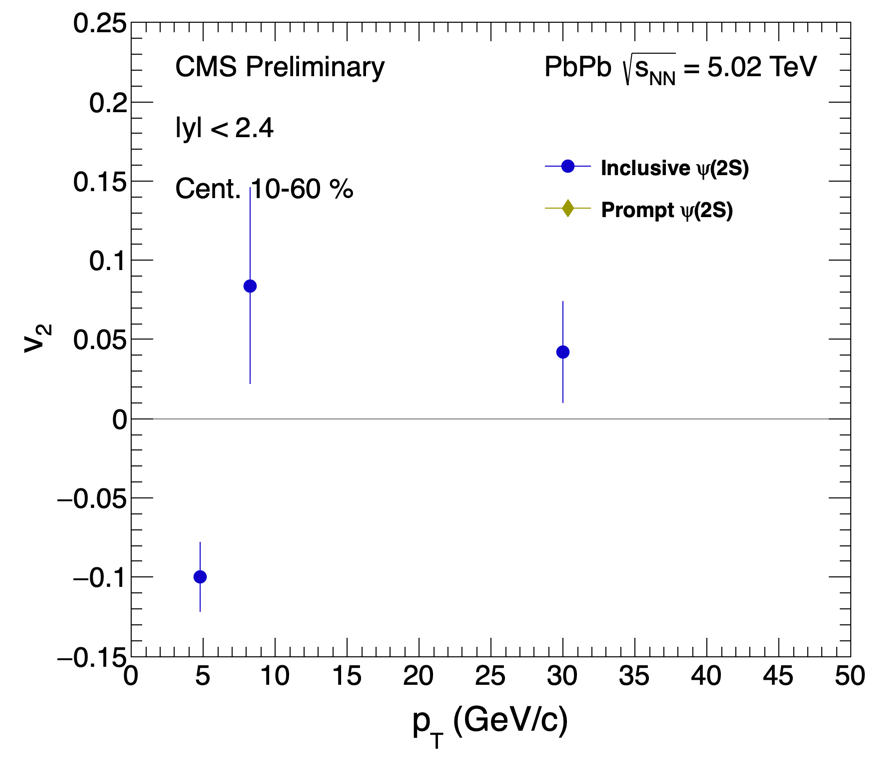
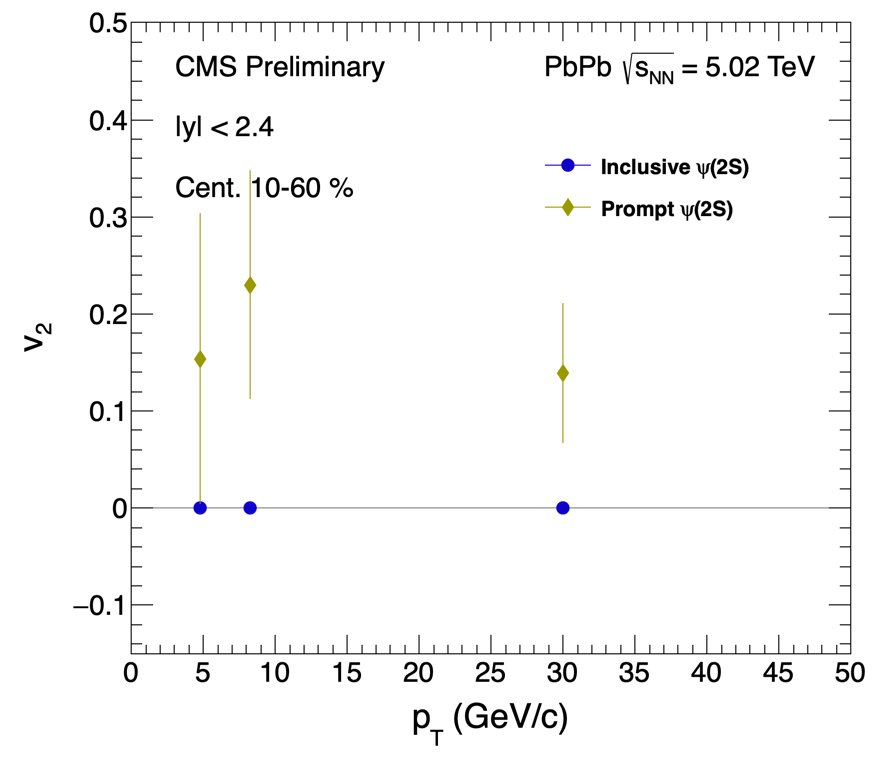
latest_210908

diff --git a/Drawing_code/simpleDrawPt.C b/Drawing_code/simpleDrawPt.C
@@ -3,15 +3,15 @@ void simpleDrawPt(){
 
 	double xbin[] = {4.75, 8.25, 30.0};
 	double xerr[] = {0.0, 0.0, 0.0};
-	double ybin[] = {-0.1, 0.084, 0.042}; // inclusive
-	double yerr[] = {0.022, 0.062, 0.032}; // inclusive
-	double ybin1[] = {0.0, 0.073, 0.014}; // prompt
-	double yerr2[] = {0.048, 0.043, 0.020}; // prompt 
+	double ybin[] = {0, 0, 0}; // inclusive
+	double yerr[] = {0, 0, 0}; // inclusive
+	double ybin1[] = {0.154, 0.230, 0.139}; // prompt
+	double yerr2[] = {0.150, 0.118, 0.072}; // prompt
 
 	TGraphErrors *v2pt = new TGraphErrors(3, xbin, ybin, xerr, yerr);
-	TGraphErrors *v2ptPrp = new TGraphErrors(3, xbin, ybin, xerr, yerr);
+	TGraphErrors *v2ptPrp = new TGraphErrors(3, xbin, ybin1, xerr, yerr2);
 	TH1F *hPad = new TH1F("hPad",";p_{T} (GeV/c);v_{2}", 10, 0.0, 50.0);
-	hPad->SetMaximum(0.25);
+	hPad->SetMaximum(0.5);
 	hPad->SetMinimum(-0.15);
 	hPad->GetXaxis()->CenterTitle();
 	hPad->GetYaxis()->CenterTitle();
@@ -28,7 +28,7 @@ void simpleDrawPt(){
 	v2ptPrp->SetMarkerColor(kYellow+2);
 	v2ptPrp->SetLineColor(kYellow+2);
 	v2ptPrp->SetMarkerSize(2.2);
-	//v2ptPrp->Draw("pz same");
+	v2ptPrp->Draw("pz same");
 
 	TLatex *lt1 = new TLatex();
 	lt1->SetNDC();

diff --git a/Drawing_code/simpleDrawCent.C b/Drawing_code/simpleDrawCent.C
@@ -1,12 +1,12 @@
 void simpleDrawCent(){
-	gROOT->Macro("~/rootlogon.C");
+	gROOT->Macro("./rootlogon.C");
 
 	double xbin[] = {5, 35.0};
-	double ybin1[] = {0.000, 0.064}; // inclusive
-	double ybin2[] = {0.156, 0.165}; // prompt 
+	double ybin1[] = {0.000, 0}; // inclusive
+	double ybin2[] = {0.156, 0.196}; // prompt
 	double xerr[] = {0.0, 0.0};
-	double yerr1[] = {0.193, 0.025}; // inclusive
-	double yerr2[] = {0.054, 0.077}; // prompt
+	double yerr1[] = {0, 0}; // inclusive
+	double yerr2[] = {0.125, 0.108}; // prompt
 
 	TGraphErrors *v2cent = new TGraphErrors(2, xbin, ybin1, xerr, yerr1);
 	TGraphErrors *v2centPrp = new TGraphErrors(2, xbin, ybin2, xerr, yerr2);
